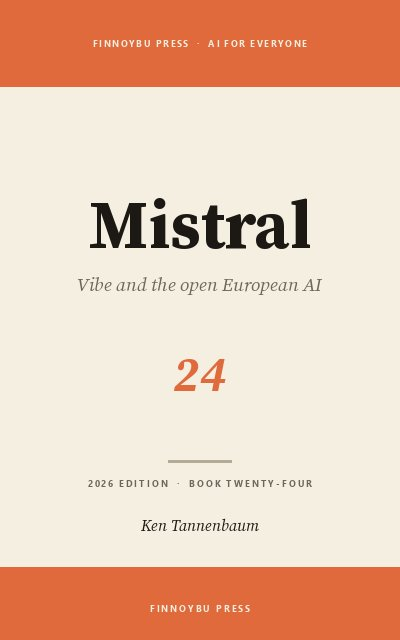
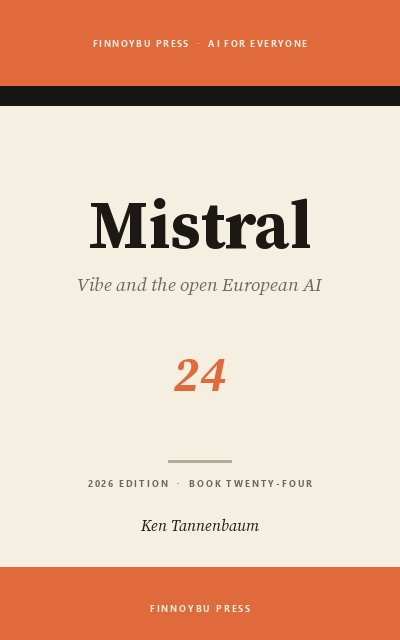
Covers: bookend variants for the Extended Series (books 22-28)
Replace hero + thumb cover images for books 22-28 with the new bookend renders:
Product Guides Vol. II (22-25) = color band/black-stripe top + color foot band;
the Capability Set (26-28) = black band/color-stripe top + black foot band.
Set cover_variant to guide (22-25) and skills (26-28) to associate each with its
parent collection (Two / Three). cover_variant is metadata only; the look is in
the regenerated images.

Changed region(s): [[0.0, 0.125, 1.0, 0.1875]]

diff --git a/src/content/books/build-apps-without-code.md b/src/content/books/build-apps-without-code.md
@@ -5,7 +5,7 @@ subtitle: v0, Bolt, Lovable, and Replit
 series_position: Book Twenty-Seven
 
 collection: capability-set
-cover_variant: extended
+cover_variant: skills
 
 accent_color: "#6D28D9"
 cover_image: /images/cover-27-build-apps-without-code.jpg

diff --git a/src/content/books/ai-literacy.md b/src/content/books/ai-literacy.md
@@ -5,7 +5,7 @@ subtitle: Judgment, Verification, and Trust
 series_position: Book Twenty-Eight
 
 collection: capability-set
-cover_variant: extended
+cover_variant: skills
 
 accent_color: "#1E3A5F"
 cover_image: /images/cover-28-ai-literacy.jpg

diff --git a/src/content/books/mistral-vibe.md b/src/content/books/mistral-vibe.md
@@ -5,7 +5,7 @@ subtitle: Vibe and the Open European AI
 series_position: Book Twenty-Four
 
 collection: product-guides-ii
-cover_variant: extended
+cover_variant: guide
 
 accent_color: "#E06A3B"
 cover_image: /images/cover-24-mistral-vibe.jpg

diff --git a/src/content/books/automate-your-work.md b/src/content/books/automate-your-work.md
@@ -5,7 +5,7 @@ subtitle: Zapier, Make, and n8n
 series_position: Book Twenty-Six
 
 collection: capability-set
-cover_variant: extended
+cover_variant: skills
 
 accent_color: "#B45309"
 cover_image: /images/cover-26-automate-your-work.jpg

diff --git a/src/content/books/deepl.md b/src/content/books/deepl.md
@@ -5,7 +5,7 @@ subtitle: Translation, Writing, and Voice
 series_position: Book Twenty-Five
 
 collection: product-guides-ii
-cover_variant: extended
+cover_variant: guide
 
 accent_color: "#0E4DA4"
 cover_image: /images/cover-25-deepl.jpg

diff --git a/src/content/books/codex.md b/src/content/books/codex.md
@@ -5,7 +5,7 @@ subtitle: The Cloud Coding Agent
 series_position: Book Twenty-Two
 
 collection: product-guides-ii
-cover_variant: extended
+cover_variant: guide
 
 accent_color: "#2E7D6B"
 cover_image: /images/cover-22-codex.jpg

diff --git a/src/content/books/grok.md b/src/content/books/grok.md
@@ -5,7 +5,7 @@ subtitle: Real-Time AI from xAI
 series_position: Book Twenty-Three
 
 collection: product-guides-ii
-cover_variant: extended
+cover_variant: guide
 
 accent_color: "#3B4252"
 cover_image: /images/cover-23-grok.jpg
